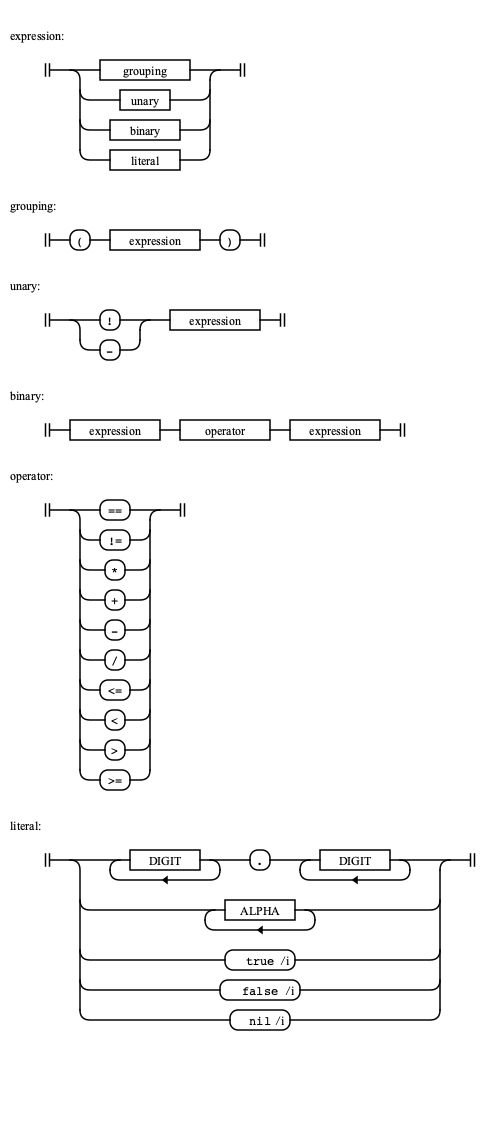
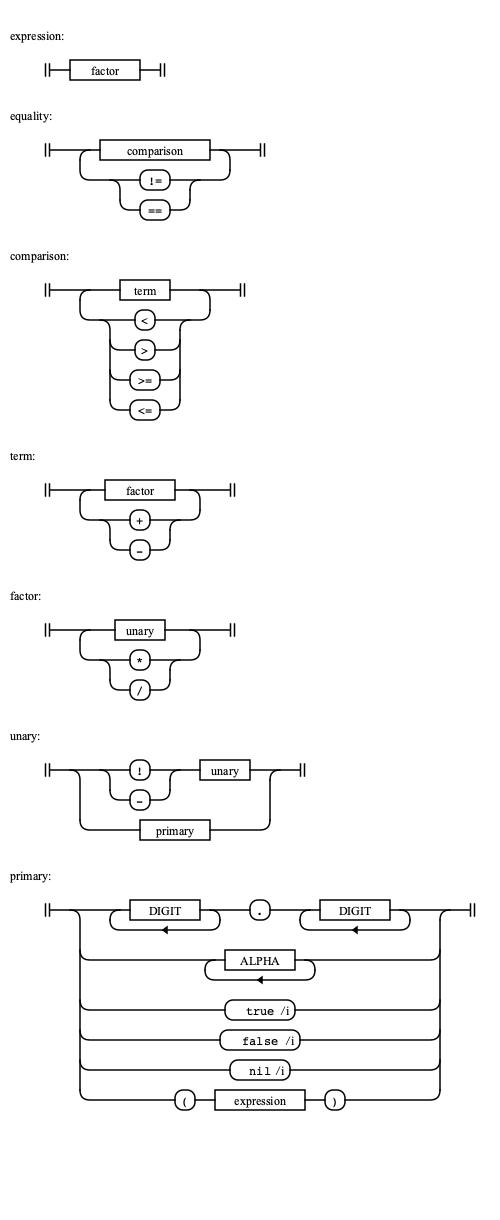
Eliminating ambiguity from grammar.
By defining associativity of operators.

diff --git a/README.md b/README.md
@@ -19,19 +19,36 @@ This implementation supports the following:
 ```
 ; Grammar for Lox.
 
-expression  = grouping / unary / binary / literal
+expression  = factor
 
-grouping    = "(" expression ")"
+equality    = comparison *( ( "!=" / "==" ) comparison )
 
-unary       = ("-" / "!") expression
+comparison  = term *( ( ">" / ">=" / "<" / "<=" ) term )
 
-binary      = expression operator expression
+term        = factor *( ( "-" / "+" ) factor )
 
-operator    = "==" / "!=" / "<" / "<=" / ">" /
-              ">=" / "+" / "-" / "*" / "/"
+factor      = unary *( ( "/" / "*" ) unary )
 
-literal     = 1*DIGIT"."1*DIGIT / 1*ALPHA /
-              "true" / "false" / "nil"
+unary       = ( "-" / "!" ) unary / primary
+
+primary     = 1*DIGIT "." 1*DIGIT / 1*ALPHA /
+              "true" / "false" / "nil" / "(" expression ")"
 ```
 
-Find the definition in the [lox.abnf](grammar/lox.abnf) file.
+Find the definition in the [lox.abnf](grammar/lox.abnf) file. 
+
+A graphical representation.
+
+![](grammar/lox.png)
+
+#### Operator Associativity
+
+To avoid ambiguity during parsing of expressions, we define the associativity of some binary operators.
+
+| **Operator family** | **Operators** | **Associates** |
+|-----------------|-----------|------------|
+| Equality        | == !=     | Left       |
+| Comparison      | > >= < <= | Left       |
+| Term            | - +       | Left       |
+| Factor          | / *       | Left       |
+| Unary           | ! -       | Right      |
